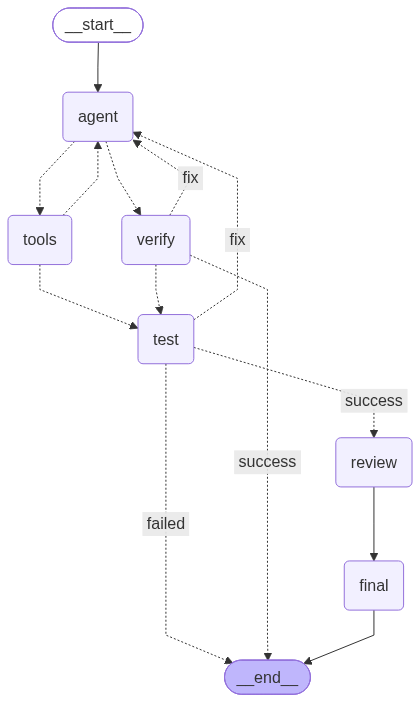
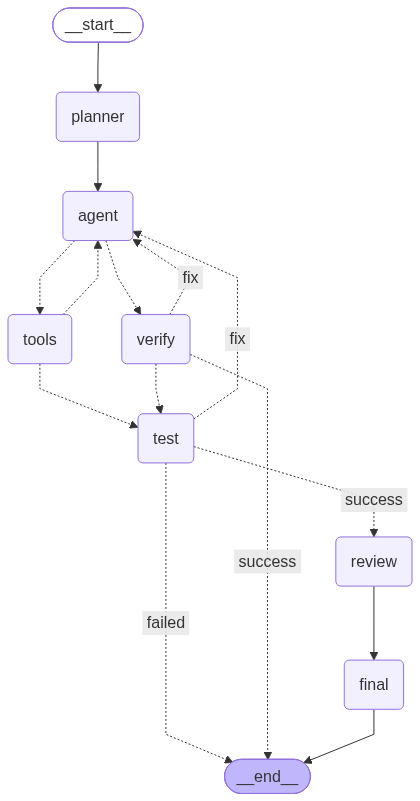
planner added in phase 4

diff --git a/mcp_server/filesystem_server.py b/mcp_server/filesystem_server.py
@@ -23,19 +23,53 @@ server = MCPServer(
 # Security
 # ============================================================
 
+# def safe_path(relative_path: str) -> Path:
+#     """
+#     Resolve a path while ensuring that it remains
+#     inside the workspace directory.
+#     """
+
+#     workspace = WORKSPACE.resolve()
+#     target = (workspace / relative_path).resolve()
+
+#     # Prevent:
+#     # ../../something
+#     # /absolute/path
+#     # symlink escapes
+#     if target != workspace and workspace not in target.parents:
+#         raise ValueError(
+#             f"Access denied: {relative_path} "
+#             "is outside the workspace."
+#         )
+
+#     return target
 def safe_path(relative_path: str) -> Path:
     """
-    Resolve a path while ensuring that it remains
-    inside the workspace directory.
+    Resolve a path inside the workspace.
+
+    The MCP workspace is already rooted at /workspace,
+    so paths should normally be relative to it.
+
+    If the agent accidentally prefixes the path with
+    'workspace/', remove that redundant prefix.
     """
 
     workspace = WORKSPACE.resolve()
+
+    relative_path = relative_path.strip()
+
+    # Normalize the common mistake:
+    # workspace/calculator/utils.py
+    # -> calculator/utils.py
+    if relative_path == "workspace":
+        relative_path = "."
+
+    elif relative_path.startswith("workspace/"):
+        relative_path = relative_path[len("workspace/"):]
+
     target = (workspace / relative_path).resolve()
 
-    # Prevent:
-    # ../../something
-    # /absolute/path
-    # symlink escapes
+    # Security boundary
     if target != workspace and workspace not in target.parents:
         raise ValueError(
             f"Access denied: {relative_path} "
@@ -43,7 +77,6 @@ def safe_path(relative_path: str) -> Path:
         )
 
     return target
-
 
 # ============================================================
 # MCP TOOLS
@@ -80,6 +113,11 @@ async def list_files(directory: str = ".") -> list[str]:
 async def read_file(file_path: str) -> str:
 
     path = safe_path(file_path)
+    print(
+        f"[DEBUG] Reading: {path}",
+        flush=True
+    )
+
 
     if not path.exists():
         raise ValueError(
@@ -118,109 +156,7 @@ async def write_file(
 
     return f"Successfully wrote: {file_path}"
 
-# @server.tool()
-# async def run_python(code: str) -> str:
-#     """
-#     Execute a Python code snippet inside the workspace
-#     and return stdout/stderr.
-#     """
 
-#     import subprocess
-
-#     try:
-#         result = subprocess.run(
-#             ["python", "-c", code],
-#             cwd=WORKSPACE,
-#             capture_output=True,
-#             text=True,
-#             timeout=30,
-#         )
-
-#         output = ""
-
-#         if result.stdout:
-#             output += (
-#                 "STDOUT:\n"
-#                 + result.stdout
-#             )
-
-#         if result.stderr:
-#             output += (
-#                 "\nSTDERR:\n"
-#                 + result.stderr
-#             )
-
-#         output += (
-#             f"\nEXIT CODE: {result.returncode}"
-#         )
-
-#         return output
-
-#     except subprocess.TimeoutExpired:
-
-#         return (
-#             "ERROR: Python execution timed out."
-#         )
-
-#     except Exception as e:
-
-#         return (
-#             f"ERROR: {type(e).__name__}: {e}"
-#         )
-    
-# @server.tool()
-# async def run_tests() -> str:
-#     """
-#     Run the project's pytest test suite and return the results.
-#     """
-
-#     import subprocess
-
-#     try:
-#         result = subprocess.run(
-#             ["python", "-m", "pytest"],
-#             cwd=WORKSPACE,
-#             capture_output=True,
-#             text=True,
-#             timeout=60,
-#         )
-
-#         output = ""
-
-#         if result.stdout:
-#             output += (
-#                 "STDOUT:\n"
-#                 + result.stdout
-#             )
-
-#         if result.stderr:
-#             output += (
-#                 "\nSTDERR:\n"
-#                 + result.stderr
-#             )
-
-#         output += (
-#             f"\nEXIT CODE: {result.returncode}"
-#         )
-
-#         if result.returncode == 0:
-#             output += "\nTEST STATUS: PASSED"
-#         else:
-#             output += "\nTEST STATUS: FAILED"
-
-#         return output
-
-#     except subprocess.TimeoutExpired:
-
-#         return (
-#             "ERROR: Test execution timed out."
-#         )
-
-#     except Exception as e:
-
-#         return (
-#             f"ERROR: {type(e).__name__}: {e}"
-#         )
 # ============================================================
 # SERVER STARTUP
 # ============================================================

diff --git a/agent/langgraph_agent.py b/agent/langgraph_agent.py
@@ -17,6 +17,10 @@ from mcp_client import MCPClient
 
 class AgentState(TypedDict):
     messages: Annotated[list, add_messages]
+
+    plan: list[str]
+    current_step: int
+
     test_passed: bool
     retry_count: int
     max_retries: int
@@ -475,9 +479,19 @@ async def test_node(state: AgentState):
 
     return {
         "messages": [
-            ToolMessage(
-                content=str(result),
-                tool_call_id="test_node"
+            HumanMessage(
+                content=f"""
+    TEST EXECUTION RESULT:
+
+    {result}
+
+    The tests have failed.
+
+    Analyze the failure carefully.
+    Inspect the relevant source code and tests.
+    Fix the implementation causing the failure.
+    Then run the tests again.
+    """
             )
         ],
         "test_passed": test_passed,
@@ -570,6 +584,61 @@ def build_graph(tools):
     graph = StateGraph(
         AgentState
     )
+
+    async def planner_node(state: AgentState):
+
+        print("\n" + "=" * 60, flush=True)
+        print("🧠 PLANNER NODE", flush=True)
+        print("=" * 60, flush=True)
+
+        planning_prompt = HumanMessage(
+            content="""
+    Analyze the user's software engineering task and create a
+    clear execution plan.
+
+    Break the task into concrete engineering steps.
+
+    The plan should include:
+    1. Repository inspection
+    2. Source/test analysis
+    3. Required implementation changes
+    4. Testing
+    5. Failure correction if tests fail
+    6. Git diff review
+    7. Git status review
+    8. Final reporting
+
+    Do NOT perform any actions.
+    Do NOT call tools.
+    Return only a numbered execution plan.
+    """
+        )
+
+        messages = [
+            *state["messages"],
+            planning_prompt
+        ]
+
+        response = await llm.ainvoke(messages)
+
+        plan_text = response.content
+
+        print("\n📋 Generated Plan:", flush=True)
+        print(plan_text, flush=True)
+
+        plan = []
+
+        for line in str(plan_text).splitlines():
+            line = line.strip()
+
+            if line:
+                plan.append(line)
+
+        return {
+            "messages": [response],
+            "plan": plan,
+            "current_step": 0
+        }
 
     async def dynamic_agent_node(state: AgentState):
 
@@ -791,6 +860,11 @@ Return only the final human-readable report.
         }
 
     graph.add_node(
+            "planner",
+            planner_node
+    )
+
+    graph.add_node(
         "agent",
         dynamic_agent_node
     )
@@ -816,9 +890,14 @@ Return only the final human-readable report.
         "final",
         final_agent_node
     )
+    
 
     graph.add_edge(
         START,
+        "planner"
+    )
+    graph.add_edge(
+        "planner",
         "agent"
     )
 
@@ -1066,6 +1145,9 @@ IMPORTANT RULES
                 task
             )
         ],
+        "plan": [],
+        "current_step": 0,
+
         "test_passed": False,
         "retry_count": 0,
         "max_retries": 3,
